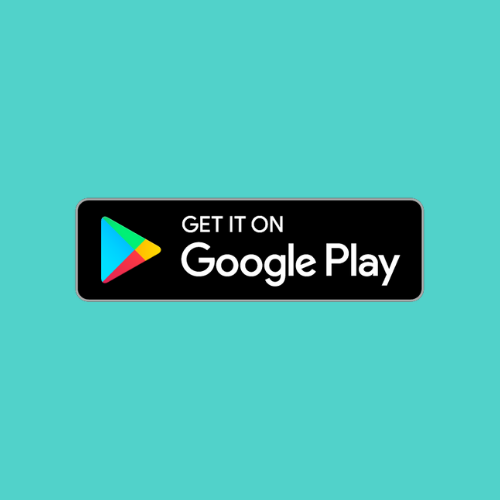
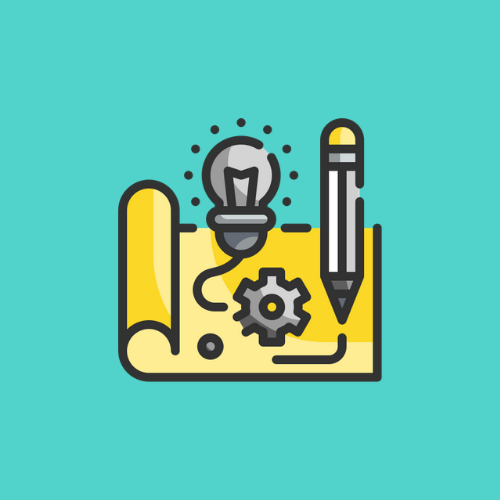
Change app to prototype

Changed region(s): [[0.15, 0.24, 0.87, 0.78], [0.57, 0.27, 0.6, 0.3]]

diff --git a/index.html b/index.html
@@ -127,10 +127,10 @@
 				<a href="#" class="image"><img src="images/pic07.png" alt="" data-position="center center" /></a>
 				<div class="content">
 					<div class="inner">
-						<h2>Download the app!</h2>
-						<p>Don't take our word for it, try it for yourself!</p>
+						<h2>Look at our prototype!</h2>
+						<p>Don't take our word for it, try it for yourself.</p>
 						<ul class="actions">
-							<li><a href="#" class="button">Download!</a></li>
+							<li><a href="#" class="button">Test!</a></li>
 						</ul>
 					</div>
 				</div>
